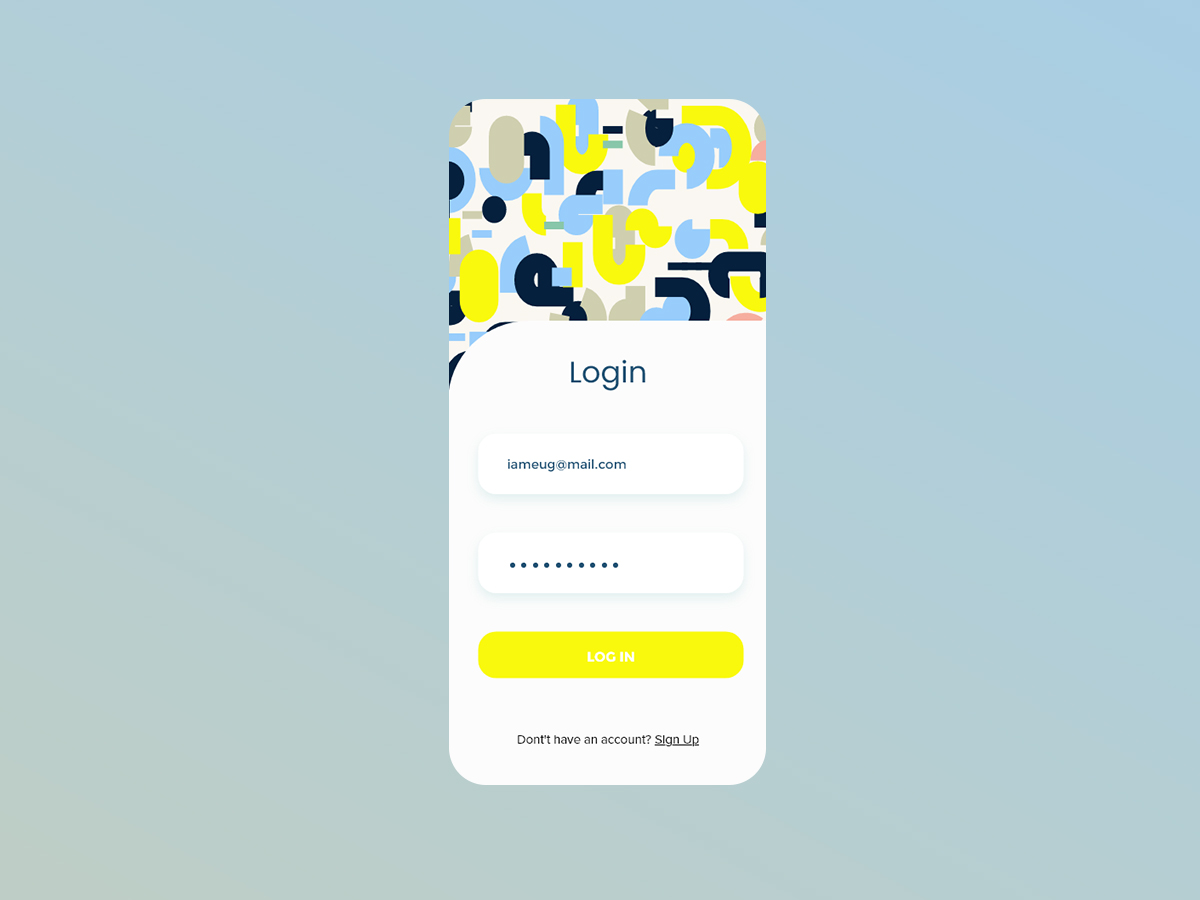
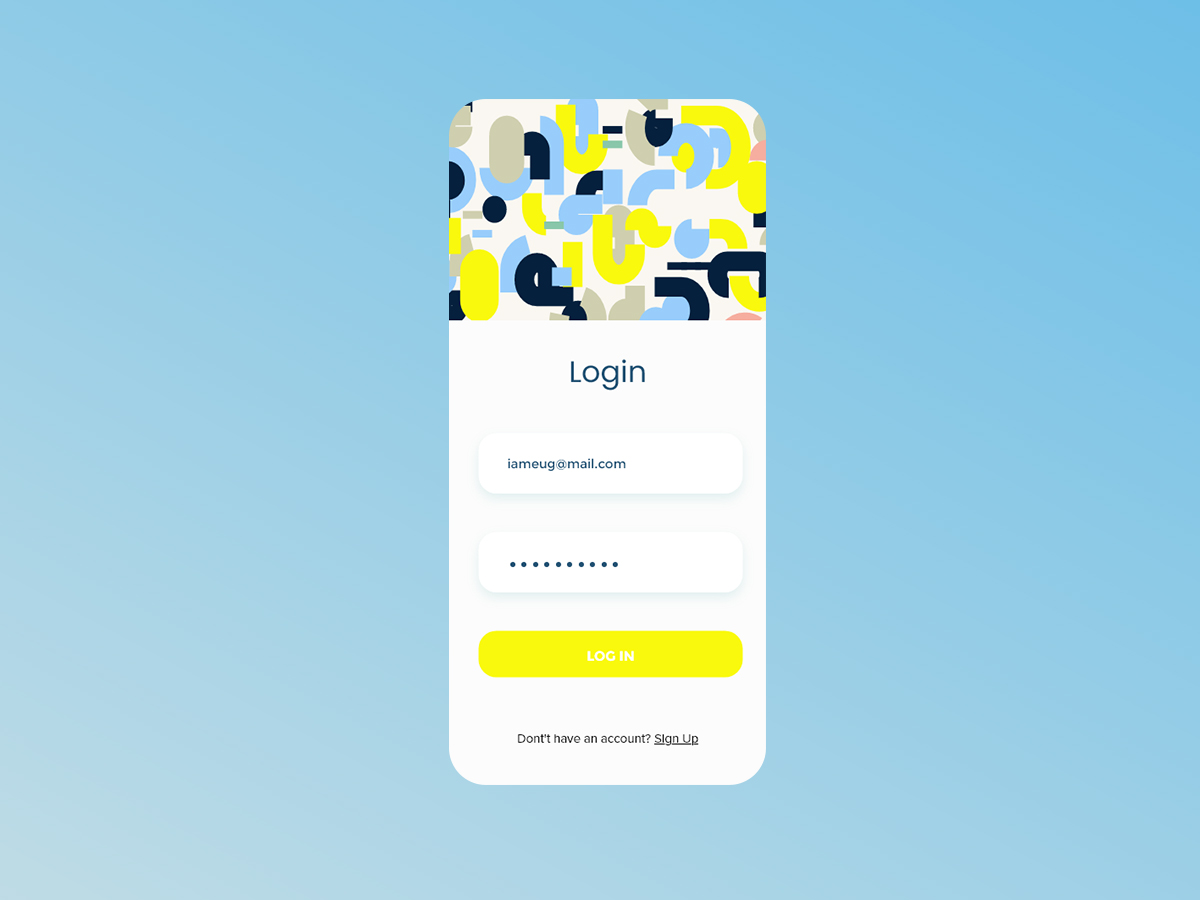
Patterns Login Done

diff --git a/lib/screens/patterns.dart b/lib/screens/patterns.dart
@@ -1,5 +1,5 @@
 import 'package:flutter/material.dart';
-import 'package:flutter_login_template_ui/utils/config.dart';
+
 import 'package:flutter_login_template_ui/widgets/constants.dart';
 
 import 'package:google_fonts/google_fonts.dart';
@@ -24,13 +24,9 @@ class _PatternsLoginState extends State<PatternsLogin> {
   Widget get _topBar => Container(
         child: Column(
           children: [
-            Positioned(
-              top: SizeConfig.blockSizeVertical * 1,
-              left: SizeConfig.blockSizeHorizontal * 1,
-              child: Image.asset(
-                UIGuide.patternimg,
-                fit: BoxFit.fitHeight,
-              ),
+            Image.asset(
+              UIGuide.patternimg,
+              fit: BoxFit.fitHeight,
             ),
           ],
         ),
@@ -42,7 +38,7 @@ class _PatternsLoginState extends State<PatternsLogin> {
           height: double.infinity,
           decoration: BoxDecoration(
               color: Colors.white,
-              borderRadius: BorderRadius.only(topLeft: Radius.circular(60))),
+              borderRadius: BorderRadius.only(topLeft: Radius.circular(1))),
           child: Padding(
             padding: const EdgeInsets.all(30.0),
             child: SingleChildScrollView(
